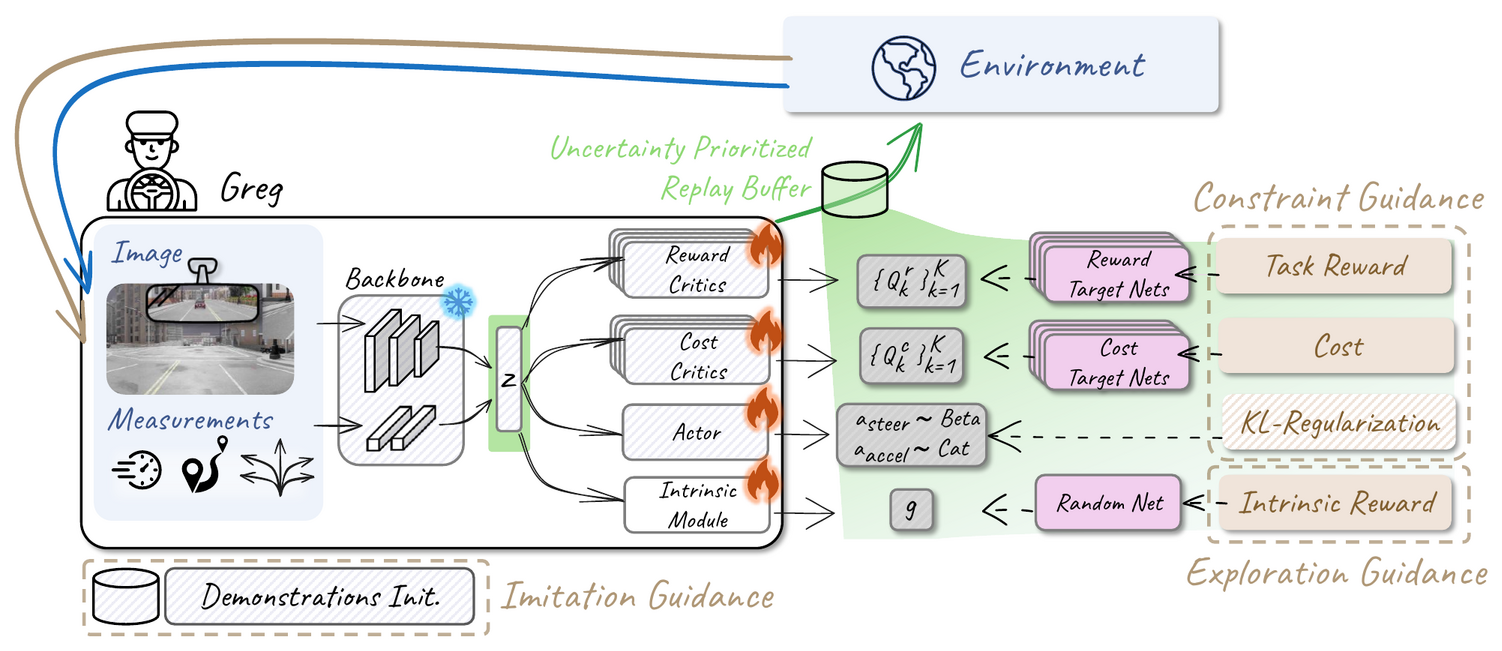
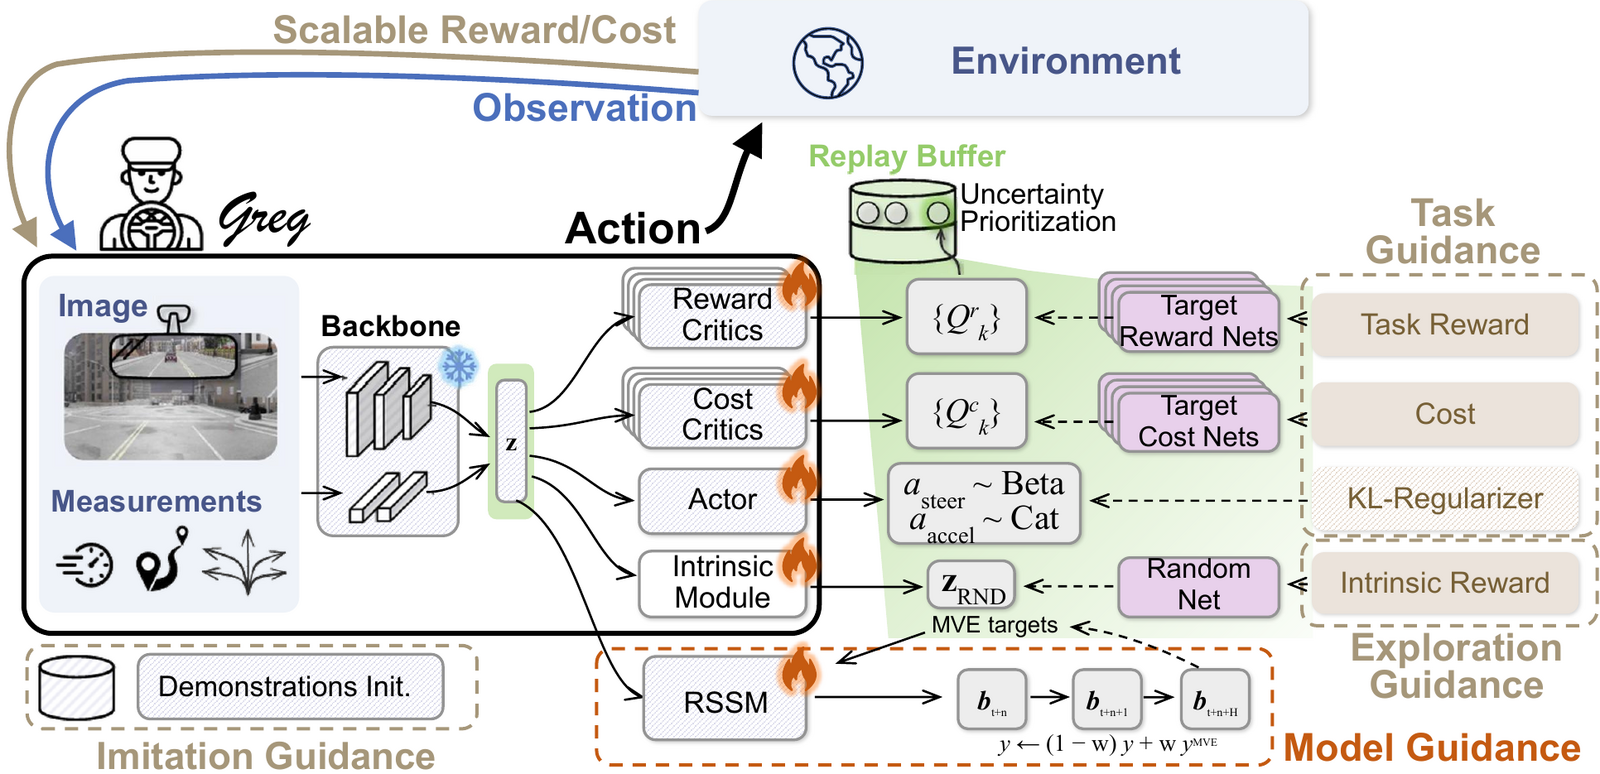
Restore the page figures and update the architecture figure
The figure pipeline was not run before the last build, so the page shipped
without its 32 figures. Regenerate them, and point the headline architecture
figure at the version the paper now uses, applying the same crop.

Fix the asset script's output directory so it writes into the site rather
than a nested copy, and drop the stale cross-reference remapping table from
the README now that numbering resolves from the paper's aux file.

diff --git a/index.html b/index.html
@@ -374,7 +374,7 @@ p^r = \log \left( 1 + \frac{U_{\text{epistemic}}^r(\bz, \mathbf{a})}{U_{\text{al
 <h2 id="sec-s2" class="secnum"><span class="num">S2</span>Findings Summary and Ablations</h2>
 <p><strong class="bp">Main Findings.</strong> With Greg, we explore the potential benefits of efficient reinforcement fine-tuning on vision-based control policies in urban driving. Our key findings are threefold. <em>First</em>, large gains can be made despite minimal architectures: a rear-view input, a hybrid action head, and reinforcement fine-tuning carry TCP-Ctrl from 30.47 to 78.11 DS, improving over most prior methods, including Raw2Drive's 71.36 <span class="cite">[<a href="#ref-4">4</a>]</span> and several recent planning-based vision-language models, such as ReCogDrive <span class="cite">[<a href="#ref-26">26</a>]</span> (also 71.36). <em>Second</em>, upgrading the network architecture (DINOv3 backbone, transformer head) leads to a new state-of-the-art of 92.03 DS, outperforming the larger and computationally intensive AutoVLA (78.84) <span class="cite">[<a href="#ref-49">49</a>]</span> and SimLingo <span class="cite">[<a href="#ref-7">7</a>]</span> (85.94). We further outperform HiP-AD, a strong imitation-learned model (86.77 DS, with extensive temporal, planning, and auxiliary task tuning). <em>Third,</em> we find that many prior RL algorithms and reward formulations fail to be easily mapped to our settings to produce improvements. We provide additional ablations to analyze these behaviors.</p>
 <h3 id="sec-s2-1" class="secnum"><span class="num">S2.1</span>Training Analysis</h3>
-<figure class="fig" id="fig:reward_cruves"><div class="missing">[missing figure: figures/uper_high_res_analysis.pdf]</div><figcaption><b>Fig. S1.</b> <strong>Reward, Cost, and Uncertainty Behavior over Training Steps.</strong> Reward steadily increases while cost decreases. Critic uncertainty initially spikes but reduces as the environment is learned. Top: Epistemic uncertainty. Middle: Aleatoric uncertainty. Bottom: Average reward and cost per episode.</figcaption></figure>
+<figure class="fig" id="fig:reward_cruves"><img class="single" src="static/images/figures_uper_high_res_analysis.png" alt="" loading="lazy"><figcaption><b>Fig. S1.</b> <strong>Reward, Cost, and Uncertainty Behavior over Training Steps.</strong> Reward steadily increases while cost decreases. Critic uncertainty initially spikes but reduces as the environment is learned. Top: Epistemic uncertainty. Middle: Aleatoric uncertainty. Bottom: Average reward and cost per episode.</figcaption></figure>
 <p><strong class="bp">Training Components Ablations.</strong> The incremental component-wise ablation and the batch-size comparison against PPO and vanilla SAC are reported in Fig. <span class="mainref">3</span> of the main paper. Below we complement them with the reward, buffer, and architecture ablations that isolate each design choice individually.</p>
 <p><strong class="bp">Reward and Uncertainty Curves.</strong> Our approach demonstrates stable convergence and healthy training dynamics over long horizons. Specifically, average reward consistently increases while cost decreases over time. Furthermore, while uncertainty initially increases, it subsequently reduces as the critics learn the environment, facilitating further improvement of the setup. Fig. <a href="#fig:reward_cruves">S1</a> shows the plots for reward and cost, alongside the corresponding epistemic and aleatoric uncertainties.</p>
 <h3 id="sec-s2-2" class="secnum"><span class="num">S2.2</span>Reward and Component Ablations</h3>
@@ -398,15 +398,15 @@ p^r = \log \left( 1 + \frac{U_{\text{epistemic}}^r(\bz, \mathbf{a})}{U_{\text{al
 <p>While our method learns a direct sensorimotor control policy and achieves competitive or superior performance with a significantly simpler pipeline (<em>e.g</em>., Raw2Drive <span class="cite">[<a href="#ref-4">4</a>]</span>, SimLingo <span class="cite">[<a href="#ref-7">7</a>]</span>), several limitations remain. Our approach assumes access to sensory observations, high-level navigation plans, and basic traffic-violation signals. Here, high-level plans can be obtained without HD maps <span class="cite">[<a href="#ref-64">64</a>]</span>, <em>e.g</em>., through standard navigation services such as Google Maps <span class="cite">[<a href="#ref-65">65</a>]</span> or OpenStreetMap <span class="cite">[<a href="#ref-16">16</a>, <a href="#ref-66">66</a>]</span>. Vehicle speed and control measurements are available from the CAN bus. However, other reward signals, such as lane-keeping and traffic-light compliance, may be noisy to obtain in the real-world from camera perception. A larger-scale study could help further validate the robustness of our approach to perception errors in the future. Moreover, although we explore various initializations to our model, our method assumes access to an offline driving dataset. This requirement can be obtained from several publicly available datasets <span class="cite">[<a href="#ref-67">67</a>, <a href="#ref-68">68</a>]</span>.</p>
 <p><strong class="bp">Qualitative Examples and Failure Cases.</strong> Figs. <a href="#fig:gradcam1">S2</a>, <a href="#fig:gradcam2">S3</a>, and <a href="#fig:gradcam3">S4</a> depict Grad-CAM <span class="cite">[<a href="#ref-69">69</a>]</span> attention visualizations for the TCP variant. Figs. <a href="#fig:gradcam4">S5</a>, <a href="#fig:gradcam5">S6</a>, <a href="#fig:gradcam6">S7</a>, <a href="#fig:gradcam7">S8</a>, and <a href="#fig:gradcam8">S9</a> show Grad-CAM for our DINOv3 variant.</p>
 <p>Our policy still exhibits several characteristic failure modes on Bench2Drive. Fig. <a href="#fig:failure">S10</a> illustrates representative examples, including incorrect steering during left turns, collisions with pedestrians, unsafe lane changes into oncoming traffic, getting stuck behind static obstacles, and side collisions during sequential lane changes.</p>
-<figure class="fig" id="fig:gradcam1"><div class="figgrid cols3"><div class="subfig"><div class="missing">[missing figure: figures/Gradcam/1-input.png]</div><div class="subcap"><strong>Input</strong></div></div><div class="subfig"><div class="missing">[missing figure: figures/Gradcam/1-IL.png]</div><div class="subcap"><strong>IL</strong></div></div><div class="subfig"><div class="missing">[missing figure: figures/Gradcam/1-RL.png]</div><div class="subcap"><strong>RL</strong></div></div></div><figcaption><b>Fig. S2.</b> <strong>Grad-CAM Visualization (TCP).</strong> The RL agent considers oncoming traffic before changing lanes.</figcaption></figure>
-<figure class="fig" id="fig:gradcam2"><div class="figgrid cols3"><div class="subfig"><div class="missing">[missing figure: figures/Gradcam/2-input.png]</div><div class="subcap"><strong>Input</strong></div></div><div class="subfig"><div class="missing">[missing figure: figures/Gradcam/2-IL.png]</div><div class="subcap"><strong>IL</strong></div></div><div class="subfig"><div class="missing">[missing figure: figures/Gradcam/2-RL.png]</div><div class="subcap"><strong>RL</strong></div></div></div><figcaption><b>Fig. S3.</b> <strong>Grad-CAM Visualization (TCP).</strong> The RL agent attends to oncoming and side traffic before executing a left turn.</figcaption></figure>
-<figure class="fig" id="fig:gradcam3"><div class="figgrid cols3"><div class="subfig"><div class="missing">[missing figure: figures/Gradcam/3-input.png]</div><div class="subcap"><strong>Input</strong></div></div><div class="subfig"><div class="missing">[missing figure: figures/Gradcam/3-IL.png]</div><div class="subcap"><strong>IL</strong></div></div><div class="subfig"><div class="missing">[missing figure: figures/Gradcam/3-RL.png]</div><div class="subcap"><strong>RL</strong></div></div></div><figcaption><b>Fig. S4.</b> <strong>Grad-CAM Visualization (TCP).</strong> The RL agent attends to the stop sign before entering the intersection.</figcaption></figure>
-<figure class="fig" id="fig:gradcam4"><div class="figgrid cols3"><div class="subfig"><div class="missing">[missing figure: figures/Gradcam/4-input.jpg]</div><div class="subcap"><strong>Input</strong></div></div><div class="subfig"><div class="missing">[missing figure: figures/Gradcam/4-IL.jpg]</div><div class="subcap"><strong>IL</strong></div></div><div class="subfig"><div class="missing">[missing figure: figures/Gradcam/4-RL.jpg]</div><div class="subcap"><strong>RL</strong></div></div></div><figcaption><b>Fig. S5.</b> <strong>Grad-CAM Visualization (DINOv3).</strong> The RL agent focuses on the static obstacles rather than on the road lanes.</figcaption></figure>
-<figure class="fig" id="fig:gradcam5"><div class="figgrid cols3"><div class="subfig"><div class="missing">[missing figure: figures/Gradcam/5-input.jpg]</div><div class="subcap"><strong>Input</strong></div></div><div class="subfig"><div class="missing">[missing figure: figures/Gradcam/5-IL.jpg]</div><div class="subcap"><strong>IL</strong></div></div><div class="subfig"><div class="missing">[missing figure: figures/Gradcam/5-RL.jpg]</div><div class="subcap"><strong>RL</strong></div></div></div><figcaption><b>Fig. S6.</b> <strong>Grad-CAM Visualization (DINOv3).</strong> The RL agent focuses on the traffic lights.</figcaption></figure>
-<figure class="fig" id="fig:gradcam6"><div class="figgrid cols3"><div class="subfig"><div class="missing">[missing figure: figures/Gradcam/6-input.jpg]</div><div class="subcap"><strong>Input</strong></div></div><div class="subfig"><div class="missing">[missing figure: figures/Gradcam/6-IL.jpg]</div><div class="subcap"><strong>IL</strong></div></div><div class="subfig"><div class="missing">[missing figure: figures/Gradcam/6-RL.jpg]</div><div class="subcap"><strong>RL</strong></div></div></div><figcaption><b>Fig. S7.</b> <strong>Grad-CAM Visualization (DINOv3).</strong> The RL agent focuses on the dynamic objects and vehicles rather than on the whole road.</figcaption></figure>
-<figure class="fig" id="fig:gradcam7"><div class="figgrid cols3"><div class="subfig"><div class="missing">[missing figure: figures/Gradcam/7-input.jpg]</div><div class="subcap"><strong>Input</strong></div></div><div class="subfig"><div class="missing">[missing figure: figures/Gradcam/7-IL.jpg]</div><div class="subcap"><strong>IL</strong></div></div><div class="subfig"><div class="missing">[missing figure: figures/Gradcam/7-RL.jpg]</div><div class="subcap"><strong>RL</strong></div></div></div><figcaption><b>Fig. S8.</b> <strong>Grad-CAM Visualization (DINOv3).</strong> The RL agent focuses on the stop sign.</figcaption></figure>
-<figure class="fig" id="fig:gradcam8"><div class="figgrid cols3"><div class="subfig"><div class="missing">[missing figure: figures/Gradcam/8-input.jpg]</div><div class="subcap"><strong>Input</strong></div></div><div class="subfig"><div class="missing">[missing figure: figures/Gradcam/8-IL.jpg]</div><div class="subcap"><strong>IL</strong></div></div><div class="subfig"><div class="missing">[missing figure: figures/Gradcam/8-RL.jpg]</div><div class="subcap"><strong>RL</strong></div></div></div><figcaption><b>Fig. S9.</b> <strong>Grad-CAM Visualization (DINOv3).</strong> The RL agent focuses on the lane and on the bicycle behind the ego vehicle.</figcaption></figure>
-<figure class="fig" id="fig:failure"><div class="figgrid cols3"><div class="subfig"><div class="missing">[missing figure: figures/failures/BadSteering.png]</div><div class="subcap">Incorrect left-turn steering.</div></div><div class="subfig"><div class="missing">[missing figure: figures/failures/PedCol.png]</div><div class="subcap">Collision with a pedestrian.</div></div><div class="subfig"><div class="missing">[missing figure: figures/failures/DangerousLaneChange.png]</div><div class="subcap">Unsafe lane change into oncoming traffic.</div></div><div class="subfig"><div class="missing">[missing figure: figures/failures/DangerousLaneChange2.png]</div><div class="subcap">Unsafe lane change into oncoming traffic.</div></div><div class="subfig"><div class="missing">[missing figure: figures/failures/StuckAtObstacle.png]</div><div class="subcap">Stuck behind a static obstacle.</div></div><div class="subfig"><div class="missing">[missing figure: figures/failures/LaneChange1way.png]</div><div class="subcap">Side collision during lane change.</div></div></div><figcaption><b>Fig. S10.</b> <strong>Representative Failure Cases.</strong> Incorrect steering, pedestrian collision, unsafe lane changes, getting stuck behind static obstacles, and side collisions during lane changes.</figcaption></figure>
+<figure class="fig" id="fig:gradcam1"><div class="figgrid cols3"><div class="subfig"><img class="" src="static/images/figures_Gradcam_1_input.jpg" alt="" loading="lazy"><div class="subcap"><strong>Input</strong></div></div><div class="subfig"><img class="" src="static/images/figures_Gradcam_1_IL.jpg" alt="" loading="lazy"><div class="subcap"><strong>IL</strong></div></div><div class="subfig"><img class="" src="static/images/figures_Gradcam_1_RL.jpg" alt="" loading="lazy"><div class="subcap"><strong>RL</strong></div></div></div><figcaption><b>Fig. S2.</b> <strong>Grad-CAM Visualization (TCP).</strong> The RL agent considers oncoming traffic before changing lanes.</figcaption></figure>
+<figure class="fig" id="fig:gradcam2"><div class="figgrid cols3"><div class="subfig"><img class="" src="static/images/figures_Gradcam_2_input.jpg" alt="" loading="lazy"><div class="subcap"><strong>Input</strong></div></div><div class="subfig"><img class="" src="static/images/figures_Gradcam_2_IL.jpg" alt="" loading="lazy"><div class="subcap"><strong>IL</strong></div></div><div class="subfig"><img class="" src="static/images/figures_Gradcam_2_RL.jpg" alt="" loading="lazy"><div class="subcap"><strong>RL</strong></div></div></div><figcaption><b>Fig. S3.</b> <strong>Grad-CAM Visualization (TCP).</strong> The RL agent attends to oncoming and side traffic before executing a left turn.</figcaption></figure>
+<figure class="fig" id="fig:gradcam3"><div class="figgrid cols3"><div class="subfig"><img class="" src="static/images/figures_Gradcam_3_input.jpg" alt="" loading="lazy"><div class="subcap"><strong>Input</strong></div></div><div class="subfig"><img class="" src="static/images/figures_Gradcam_3_IL.jpg" alt="" loading="lazy"><div class="subcap"><strong>IL</strong></div></div><div class="subfig"><img class="" src="static/images/figures_Gradcam_3_RL.jpg" alt="" loading="lazy"><div class="subcap"><strong>RL</strong></div></div></div><figcaption><b>Fig. S4.</b> <strong>Grad-CAM Visualization (TCP).</strong> The RL agent attends to the stop sign before entering the intersection.</figcaption></figure>
+<figure class="fig" id="fig:gradcam4"><div class="figgrid cols3"><div class="subfig"><img class="" src="static/images/figures_Gradcam_4_input.jpg" alt="" loading="lazy"><div class="subcap"><strong>Input</strong></div></div><div class="subfig"><img class="" src="static/images/figures_Gradcam_4_IL.jpg" alt="" loading="lazy"><div class="subcap"><strong>IL</strong></div></div><div class="subfig"><img class="" src="static/images/figures_Gradcam_4_RL.jpg" alt="" loading="lazy"><div class="subcap"><strong>RL</strong></div></div></div><figcaption><b>Fig. S5.</b> <strong>Grad-CAM Visualization (DINOv3).</strong> The RL agent focuses on the static obstacles rather than on the road lanes.</figcaption></figure>
+<figure class="fig" id="fig:gradcam5"><div class="figgrid cols3"><div class="subfig"><img class="" src="static/images/figures_Gradcam_5_input.jpg" alt="" loading="lazy"><div class="subcap"><strong>Input</strong></div></div><div class="subfig"><img class="" src="static/images/figures_Gradcam_5_IL.jpg" alt="" loading="lazy"><div class="subcap"><strong>IL</strong></div></div><div class="subfig"><img class="" src="static/images/figures_Gradcam_5_RL.jpg" alt="" loading="lazy"><div class="subcap"><strong>RL</strong></div></div></div><figcaption><b>Fig. S6.</b> <strong>Grad-CAM Visualization (DINOv3).</strong> The RL agent focuses on the traffic lights.</figcaption></figure>
+<figure class="fig" id="fig:gradcam6"><div class="figgrid cols3"><div class="subfig"><img class="" src="static/images/figures_Gradcam_6_input.jpg" alt="" loading="lazy"><div class="subcap"><strong>Input</strong></div></div><div class="subfig"><img class="" src="static/images/figures_Gradcam_6_IL.jpg" alt="" loading="lazy"><div class="subcap"><strong>IL</strong></div></div><div class="subfig"><img class="" src="static/images/figures_Gradcam_6_RL.jpg" alt="" loading="lazy"><div class="subcap"><strong>RL</strong></div></div></div><figcaption><b>Fig. S7.</b> <strong>Grad-CAM Visualization (DINOv3).</strong> The RL agent focuses on the dynamic objects and vehicles rather than on the whole road.</figcaption></figure>
+<figure class="fig" id="fig:gradcam7"><div class="figgrid cols3"><div class="subfig"><img class="" src="static/images/figures_Gradcam_7_input.jpg" alt="" loading="lazy"><div class="subcap"><strong>Input</strong></div></div><div class="subfig"><img class="" src="static/images/figures_Gradcam_7_IL.jpg" alt="" loading="lazy"><div class="subcap"><strong>IL</strong></div></div><div class="subfig"><img class="" src="static/images/figures_Gradcam_7_RL.jpg" alt="" loading="lazy"><div class="subcap"><strong>RL</strong></div></div></div><figcaption><b>Fig. S8.</b> <strong>Grad-CAM Visualization (DINOv3).</strong> The RL agent focuses on the stop sign.</figcaption></figure>
+<figure class="fig" id="fig:gradcam8"><div class="figgrid cols3"><div class="subfig"><img class="" src="static/images/figures_Gradcam_8_input.jpg" alt="" loading="lazy"><div class="subcap"><strong>Input</strong></div></div><div class="subfig"><img class="" src="static/images/figures_Gradcam_8_IL.jpg" alt="" loading="lazy"><div class="subcap"><strong>IL</strong></div></div><div class="subfig"><img class="" src="static/images/figures_Gradcam_8_RL.jpg" alt="" loading="lazy"><div class="subcap"><strong>RL</strong></div></div></div><figcaption><b>Fig. S9.</b> <strong>Grad-CAM Visualization (DINOv3).</strong> The RL agent focuses on the lane and on the bicycle behind the ego vehicle.</figcaption></figure>
+<figure class="fig" id="fig:failure"><div class="figgrid cols3"><div class="subfig"><img class="" src="static/images/figures_failures_BadSteering.jpg" alt="" loading="lazy"><div class="subcap">Incorrect left-turn steering.</div></div><div class="subfig"><img class="" src="static/images/figures_failures_PedCol.jpg" alt="" loading="lazy"><div class="subcap">Collision with a pedestrian.</div></div><div class="subfig"><img class="" src="static/images/figures_failures_DangerousLaneChange.jpg" alt="" loading="lazy"><div class="subcap">Unsafe lane change into oncoming traffic.</div></div><div class="subfig"><img class="" src="static/images/figures_failures_DangerousLaneChange2.jpg" alt="" loading="lazy"><div class="subcap">Unsafe lane change into oncoming traffic.</div></div><div class="subfig"><img class="" src="static/images/figures_failures_StuckAtObstacle.jpg" alt="" loading="lazy"><div class="subcap">Stuck behind a static obstacle.</div></div><div class="subfig"><img class="" src="static/images/figures_failures_LaneChange1way.jpg" alt="" loading="lazy"><div class="subcap">Side collision during lane change.</div></div></div><figcaption><b>Fig. S10.</b> <strong>Representative Failure Cases.</strong> Incorrect steering, pedestrian collision, unsafe lane changes, getting stuck behind static obstacles, and side collisions during lane changes.</figcaption></figure>
   </div>
 </section>
 

diff --git a/tools/assets.py b/tools/assets.py
@@ -4,13 +4,24 @@ import re, os, json, subprocess, shutil
 
 PAPER = os.environ.get('GREG_PAPER_DIR', '../GREG_paper')
 OUT = os.path.dirname(os.path.abspath(__file__))
-SITE = os.path.join(OUT, 'site')
+SITE = os.environ.get('GREG_SITE_DIR', os.path.dirname(OUT))
 IMGDIR = os.path.join(SITE, 'static', 'images')
 os.makedirs(IMGDIR, exist_ok=True)
 
 EXTRA = ['figures/Greg.pdf', 'figures/Overview.pdf', 'figures/model.pdf']
 
+# Figures the ICRA paper supersedes: web stem -> (source relative to PAPER, crop applied
+# in the paper via \includegraphics trim). Keeps the page's headline figure in step with
+# the submitted PDF.
+OVERRIDE = {
+    'figures/Greg.pdf': ('ICRA/icra8/figures/Greg_with_MVE.pdf', '0.5cm 2.0cm 2.7cm 2.2cm'),
+}
+
 def resolve(p):
+    if p in OVERRIDE:
+        f = os.path.join(PAPER, OVERRIDE[p][0])
+        if os.path.exists(f):
+            return f
     cands = [p, p + '.pdf', p + '.png', p + '.jpg', p + '.jpeg']
     for c in cands:
         f = os.path.join(PAPER, c)
@@ -18,14 +29,28 @@ def resolve(p):
             return f
     return None
 
-def convert(src, stem):
+DPI = 160
+CM = DPI / 2.54          # pixels per cm at the render resolution
+
+def crop_args(trim, dst):
+    """LaTeX trim is 'left bottom right top'; translate it to an ImageMagick crop."""
+    l, b, r, t = (float(v.rstrip('cm')) * CM for v in trim.split())
+    w, h = subprocess.run(['identify', '-format', '%w %h', dst],
+                          capture_output=True, text=True, check=True).stdout.split()
+    w, h = int(w), int(h)
+    return ['-crop', '%dx%d+%d+%d' % (round(w - l - r), round(h - t - b), round(l), round(t)),
+            '+repage']
+
+def convert(src, stem, trim=None):
     ext = os.path.splitext(src)[1].lower()
     dst = os.path.join(IMGDIR, stem + '.jpg')
     if ext == '.pdf':
         dst = os.path.join(IMGDIR, stem + '.png')
-        subprocess.run(['pdftoppm', '-png', '-r', '160', '-singlefile', src,
+        subprocess.run(['pdftoppm', '-png', '-r', str(DPI), '-singlefile', src,
                         os.path.join(IMGDIR, stem)], check=True)
-        subprocess.run(['convert', dst, '-resize', '1600x1600>', '-strip', dst], check=True)
+        crop = crop_args(trim, dst) if trim else []
+        subprocess.run(['convert', dst] + crop + ['-resize', '1600x1600>', '-strip', dst],
+                       check=True)
     else:
         subprocess.run(['convert', src, '-resize', '1400x1400>', '-quality', '86',
                         '-strip', dst], check=True)
@@ -43,7 +68,7 @@ def main():
             missing.append(p); continue
         stem = re.sub(r'[^A-Za-z0-9]+', '_', os.path.splitext(p)[0]).strip('_')
         try:
-            mapping[p] = convert(src, stem)
+            mapping[p] = convert(src, stem, OVERRIDE[p][1] if p in OVERRIDE else None)
         except subprocess.CalledProcessError as e:
             missing.append(p)
     json.dump(mapping, open(os.path.join(OUT, 'assets.json'), 'w'), indent=1)

diff --git a/README.md b/README.md
@@ -92,24 +92,13 @@ absolute path is an identifier.
 
 ## Cross-references into the main paper
 
-The page body is generated from the journal-length `supplementary.tex`, whose `\ref`s
-resolve against the 16-page manuscript. The 8-page ICRA paper numbers its floats
-differently, so `tools/build.py` output must be remapped after every regeneration:
+The page body is generated from `supplementary.tex`, whose `MAIN-` prefixed `\ref`s point
+into the main paper. `tools/build.py` resolves them against `ICRA/icra8/greg_icra8.aux`, so
+the numbers on the page always match the 8-page ICRA build and no manual remapping is
+needed. Set `GREG_MAIN_AUX` to resolve against a different build of the paper.
 
-| Page says | ICRA paper |
-| --- | --- |
-| Fig. 2 (training curves, batch size) | Fig. 3 |
-| Eq. 9 (critic targets) | Eq. 3 |
-| Eq. 10 (blend weight) | Eq. 8 |
-| Eq. 4 (critic loss) | no numbered equation; state it in prose |
-| Sec. 3.3 / 3.4 | Sec. III-C / III-D |
-| Table 2 (multi-ability) | Table I |
-| Table 4 (reward comparison) | Table III(b) |
-| Table 6 (HUGSIM) | Table II(a) |
-| Tables 7, 8 (BlackOut) | Table II(b) |
-| Table 9 (Agility) | Table II(c) |
-| Table 5 (Town05 Short), Table 10 (BDD-X) | not in the paper; do not cite it as such |
-| Fig. 3 (corrupted observations) | not in the paper |
+Build the paper first: a stale or missing `.aux` leaves the numbers unresolved, and
+`tools/build.py` reports them at the end of its run.
 
 Check for regressions with:
 
